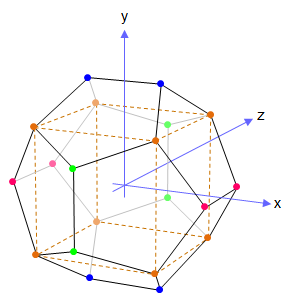
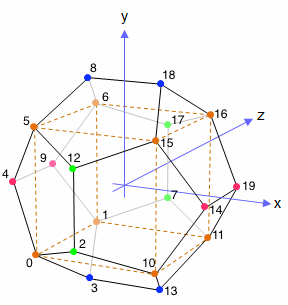
Fully implemented dodecahedron

diff --git a/psg-stl.py b/psg-stl.py
@@ -41,16 +41,24 @@ class Cube(PlatonicSolid):
 
 class Dodecahedron(PlatonicSolid):
     def __init__(self):
-        super(Cube, self).__init__("Dodecahedron", 20)
+        super(Dodecahedron, self).__init__("Dodecahedron", 20)
+
+    def add_face(self, indices):
+        self.indices.append(
+            [ indices[0], indices[1], indices[2] ])
+        self.indices.append(
+            [ indices[2], indices[3], indices[0] ])
+        self.indices.append(
+            [ indices[3], indices[4], indices[0] ])
 
     def generate(self):
         phi = (1.0 + math.sqrt(5.0)) / 2.0
         one_over_phi = 1.0 / phi
 
         verts = []
-        for ix in range(-1, 1, 2):
-            for iy in range(-1, 1, 2):
-                for iz in range(-1, 1, 2):
+        for ix in range(-1, 2, 2):
+            for iy in range(-1, 2, 2):
+                for iz in range(-1, 2, 2):
                     verts.append(Vector(ix * 1, iy * 1, iz * 1))
 
                 verts.append(Vector(0,                 ix * one_over_phi, iy * phi         ))
@@ -60,7 +68,18 @@ class Dodecahedron(PlatonicSolid):
         self.verts = verts
 
         # Refer to diagram in docs to see how these indices are formed
-        # TODO!
+        self.add_face([15, 12, 2, 10, 14])
+        self.add_face([8, 5, 12, 15, 18])
+        self.add_face([8, 6, 9, 4, 5])
+        self.add_face([9, 4, 0, 3, 1])
+        self.add_face([6, 17, 7, 1, 9])
+        self.add_face([0, 3, 13, 10, 2])
+        self.add_face([13, 11, 7, 1, 3])
+        self.add_face([13, 11, 19, 14, 10])
+        self.add_face([14, 19, 16, 18, 15])
+        self.add_face([17, 6, 8, 18, 16])
+        self.add_face([11, 7, 17, 16, 19])
+        self.add_face([0, 2, 12, 5, 4])
 
 class STLWriter:
     def calculate_normal(self, a, b):
@@ -111,7 +130,8 @@ class STLWriter:
 if __name__ == '__main__':
     SOLIDS = {
         1: Tetrahedron(),
-        2: Cube()
+        2: Cube(),
+        4: Dodecahedron()
     }
 
     parser = argparse.ArgumentParser(
